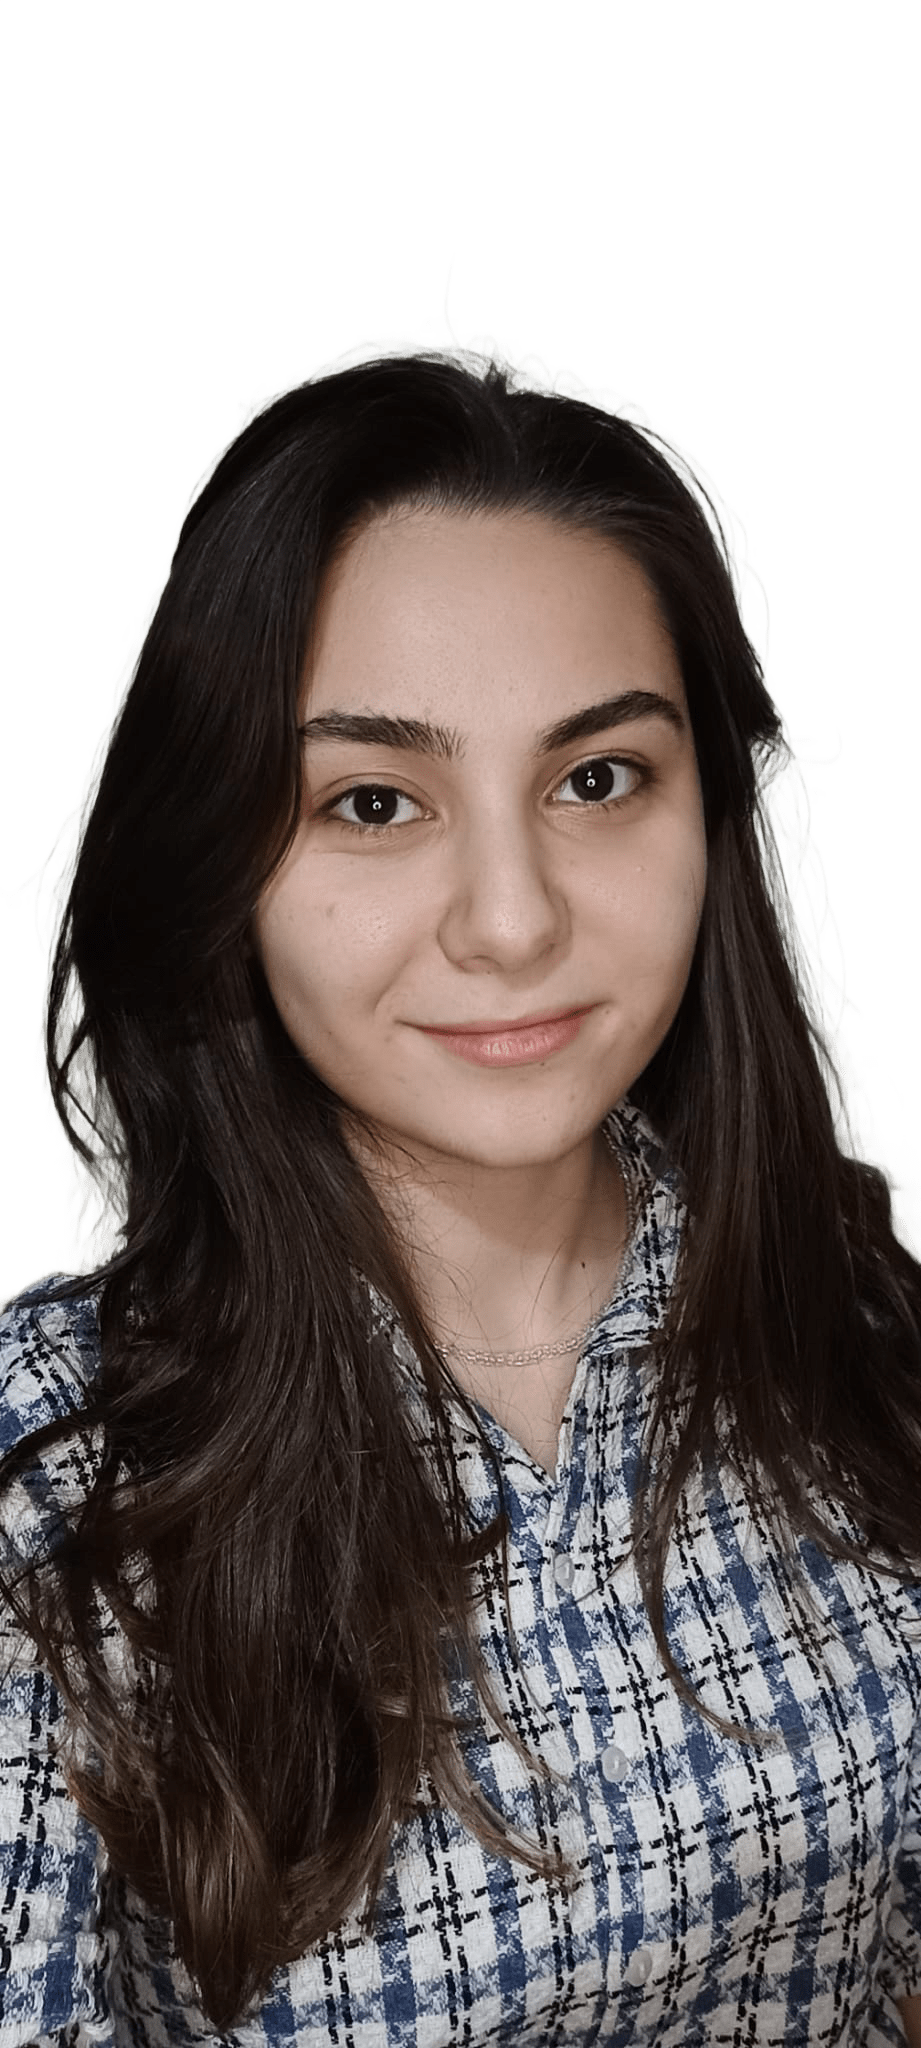
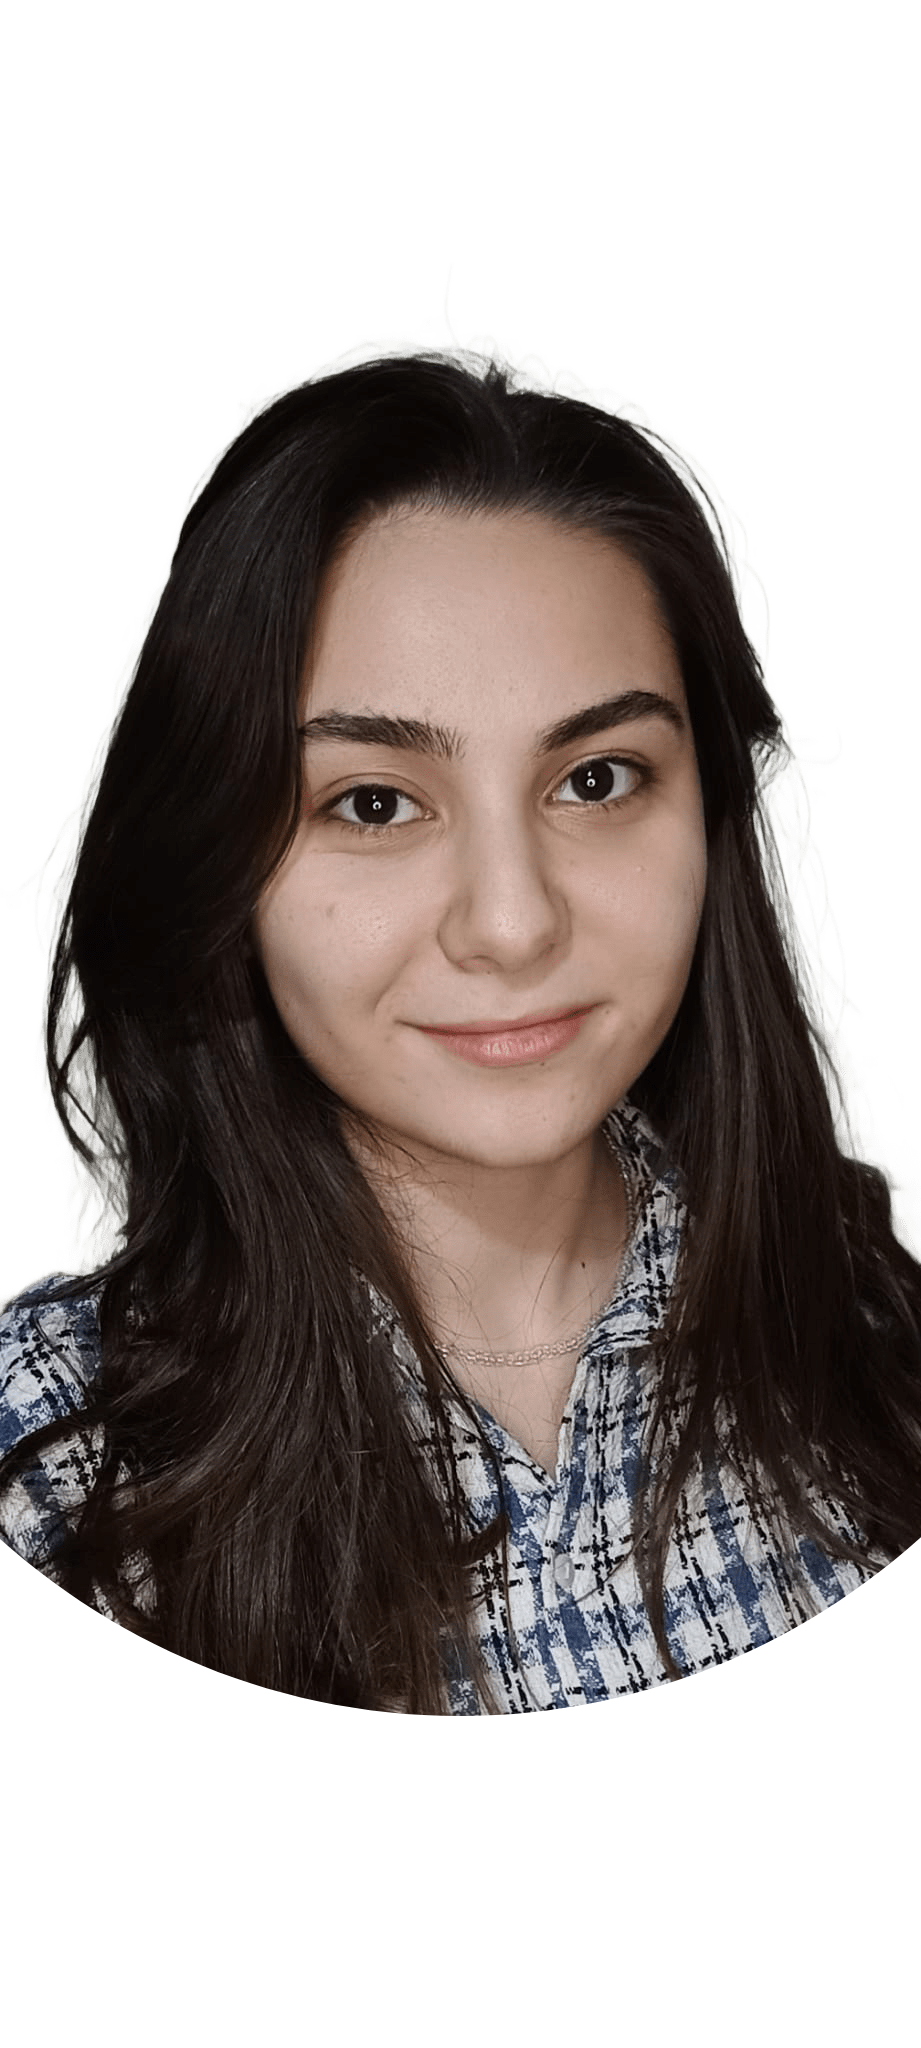
resimde değişiklik yapıldı çerçeveler eklendi

Changed region(s): [[0.0, 0.75, 1.0, 1.0]]

diff --git a/src/app/app.component.html b/src/app/app.component.html
@@ -1,11 +1,11 @@
 <div class="container">
   <div class="row text-center">
-    <div class="col-6">
+    <div class="col-6 border border-success">
       <p class="heading">{{ animatedHeading }}</p>
       <p class="name">{{ animatedName }}</p>
       <p class="description">{{ animatedDescription }}</p>
     </div>
-    <div class="col-6">
+    <div class="col-6 border border-primary">
       <img
         src="/assets/img/dilara.png"
         alt="dilara"

diff --git a/src/styles.css b/src/styles.css
@@ -22,8 +22,8 @@ body {
 
 .dilara-picture {
   max-width: 50%;
-  border-radius: 50%;
-  box-shadow: 0px 5px var(--green);
+  
+  
 }
 
 .heading {
@@ -68,11 +68,11 @@ body {
 }
 .about-border {
   border: 5px;
+  border-color: var(--purple);
   box-shadow: 0px 0px 15px var(--purple);
   transition: box-shadow 0.5s;
-  border: none;
   box-shadow: none;
-  border-radius: 10cap;
+  
 }
 
 .about-border:hover {
